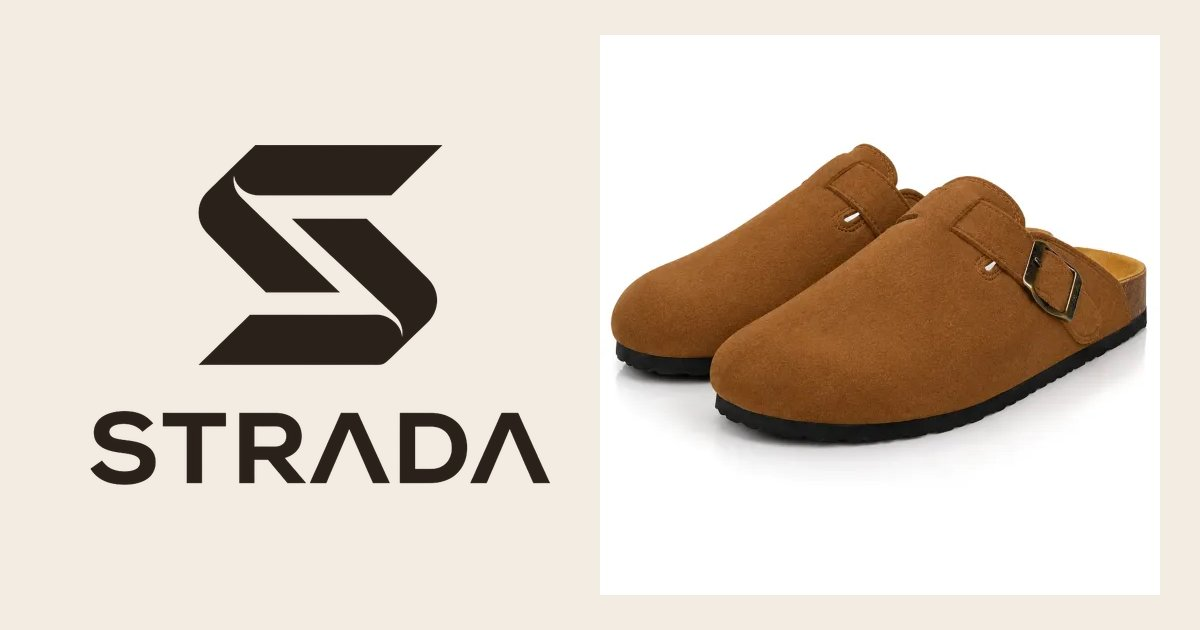
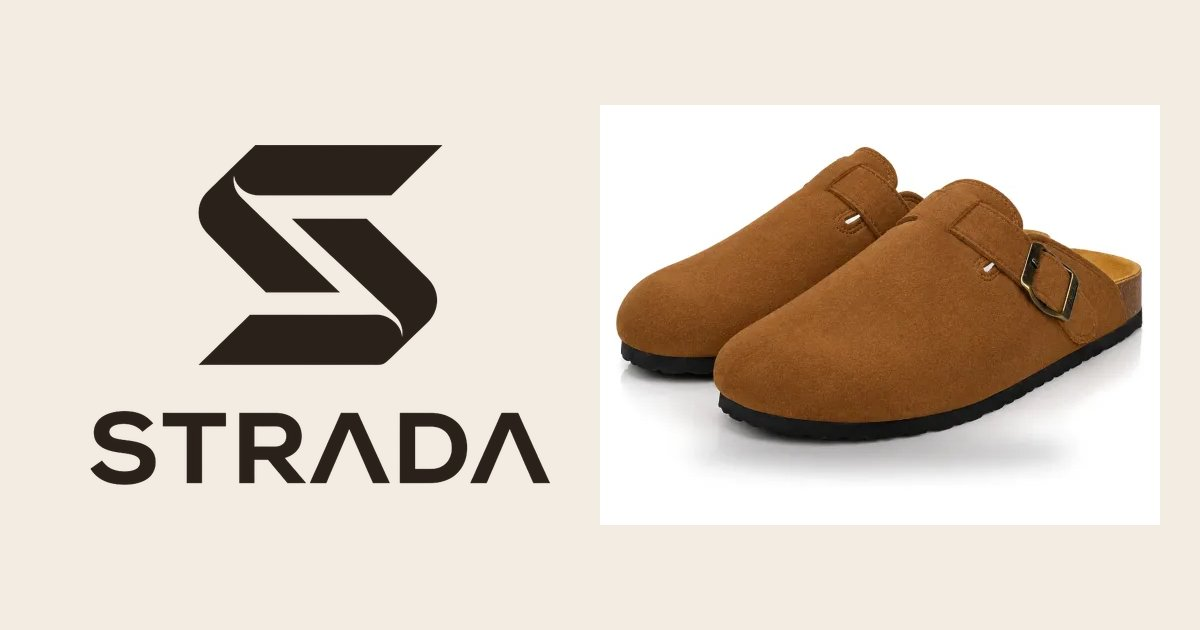
Fix iPhone hero image, refresh jump, add 404 page and robots.txt
- Hero card: fixed height on phones/tablets instead of aspect-ratio +
  max-height, which Safari (WebKit) mis-sizes, cutting off the photo.
- Main product photos are now 4:3 with the soft shadow baked in, so
  they fill the wide hero card and line up in every browser.
- In-page links (#order, #offer, #faq, back to top) scroll without
  adding a hash to the URL, so a refresh no longer jumps to the form.
- Hide the floating WhatsApp button only while it covers the hero
  order button (IntersectionObserver, no layout reads on scroll).
- Add a trilingual 404 page and robots.txt (thank-you pages not indexed).
- Hide the Astro dev toolbar during development.

diff --git a/src/scripts/app.ts b/src/scripts/app.ts
@@ -322,25 +322,58 @@ observe('#hero-cta', (visible) => {
 
 // Small phones: the hero "Order now" button can land at the very bottom of the screen, right where
 // the floating WhatsApp button is. While it does, the WhatsApp button hides (it comes back on scroll).
+// IntersectionObserver whose area is only the bottom strip of the screen (no layout reads on scroll).
 {
   const cta = document.getElementById('hero-cta');
-  const WA_ZONE = 96; // px from the bottom of the screen covered by the WhatsApp button
-  let queued = false;
-  const check = () => {
-    queued = false;
-    if (!cta) return;
-    const r = cta.getBoundingClientRect();
-    (Alpine.store('ui') as { heroCtaUnderWhatsApp: boolean }).heroCtaUnderWhatsApp =
-      r.bottom > innerHeight - WA_ZONE && r.top < innerHeight;
+  const WA_ZONE = 80; // px from the bottom covered by the WhatsApp button (16px gap + 56px button + margin)
+  let io: IntersectionObserver | undefined;
+  const watch = () => {
+    io?.disconnect();
+    if (!cta || !('IntersectionObserver' in window)) return;
+    io = new IntersectionObserver(
+      ([e]) => {
+        (Alpine.store('ui') as { heroCtaUnderWhatsApp: boolean }).heroCtaUnderWhatsApp = e.isIntersecting;
+      },
+      { rootMargin: `-${Math.max(0, innerHeight - WA_ZONE)}px 0px 0px 0px` },
+    );
+    io.observe(cta);
   };
-  const queue = () => {
-    if (!queued) (queued = true), requestAnimationFrame(check);
-  };
-  if (cta) {
-    addEventListener('scroll', queue, { passive: true });
-    addEventListener('resize', queue);
-    check();
+  watch();
+  let resizeTimer: number | undefined;
+  addEventListener('resize', () => {
+    clearTimeout(resizeTimer);
+    resizeTimer = window.setTimeout(watch, 200);
+  });
+}
+
+// In-page links ("Order now" → #order, footer links, back to top): scroll without putting
+// "#order" in the address. Otherwise refreshing the page jumps straight back to the form.
+document.addEventListener('click', (e) => {
+  if (e.defaultPrevented || e.button !== 0 || e.metaKey || e.ctrlKey || e.shiftKey || e.altKey) return;
+  const a = (e.target as Element | null)?.closest?.('a[href]') as HTMLAnchorElement | null;
+  if (!a || !a.getAttribute('href')?.includes('#')) return;
+  const url = new URL(a.href);
+  if (url.origin !== location.origin || url.pathname !== location.pathname) return;
+  const id = decodeURIComponent(url.hash.slice(1));
+  const target = id ? document.getElementById(id) : null;
+  if (id && !target) return;
+  e.preventDefault();
+  if (!target) {
+    scrollTo({ top: 0 }); // "#" = back to top (smooth via CSS, instant with reduced motion)
+    return;
   }
+  target.scrollIntoView({ block: 'start' });
+  // Keyboard / screen-reader users continue from the section they jumped to
+  if (!target.hasAttribute('tabindex')) target.setAttribute('tabindex', '-1');
+  target.focus({ preventScroll: true });
+});
+
+// Arrived with a #section in the address (e.g. from the thank-you page footer): the browser has
+// jumped there; remove it from the address so a refresh doesn't jump again.
+if (location.hash) {
+  const clean = () => history.replaceState(history.state, '', location.pathname + location.search);
+  if (document.readyState === 'complete') setTimeout(clean, 0);
+  else addEventListener('load', () => setTimeout(clean, 0), { once: true });
 }
 
 // Pixel ViewContent when the gallery or the offer is seen (once)

diff --git a/src/config/translations/ar.ts b/src/config/translations/ar.ts
@@ -135,6 +135,9 @@ const ar = {
     maxPairs: 'ماكسيموم {n} أزواج',
   },
 
+  /* ---------- 404 page ---------- */
+  notFound: { title: 'هاد الصفحة ما كايناش', text: 'يمكن الرابط غالط ولا الصفحة تحيدات.', back: 'رجع للصفحة الرئيسية' },
+
   /* ---------- Thank-you page ---------- */
   thanks: {
     title: 'شكرا! توصلنا بالطلب ديالك',

diff --git a/src/config/translations/fr.ts b/src/config/translations/fr.ts
@@ -133,6 +133,9 @@ const fr: Translation = {
     maxPairs: '{n} paires maximum',
   },
 
+  /* ---------- 404 page ---------- */
+  notFound: { title: 'Page introuvable', text: 'Le lien est peut-être erroné ou la page a été supprimée.', back: 'Retour à l’accueil' },
+
   /* ---------- Thank-you page ---------- */
   thanks: {
     title: 'Merci ! Votre commande est bien reçue',

diff --git a/src/config/translations/en.ts b/src/config/translations/en.ts
@@ -133,6 +133,9 @@ const en: Translation = {
     maxPairs: '{n} pairs maximum',
   },
 
+  /* ---------- 404 page ---------- */
+  notFound: { title: 'Page not found', text: 'The link may be wrong or the page was removed.', back: 'Back to home page' },
+
   /* ---------- Thank-you page ---------- */
   thanks: {
     title: 'Thank you! We received your order',
